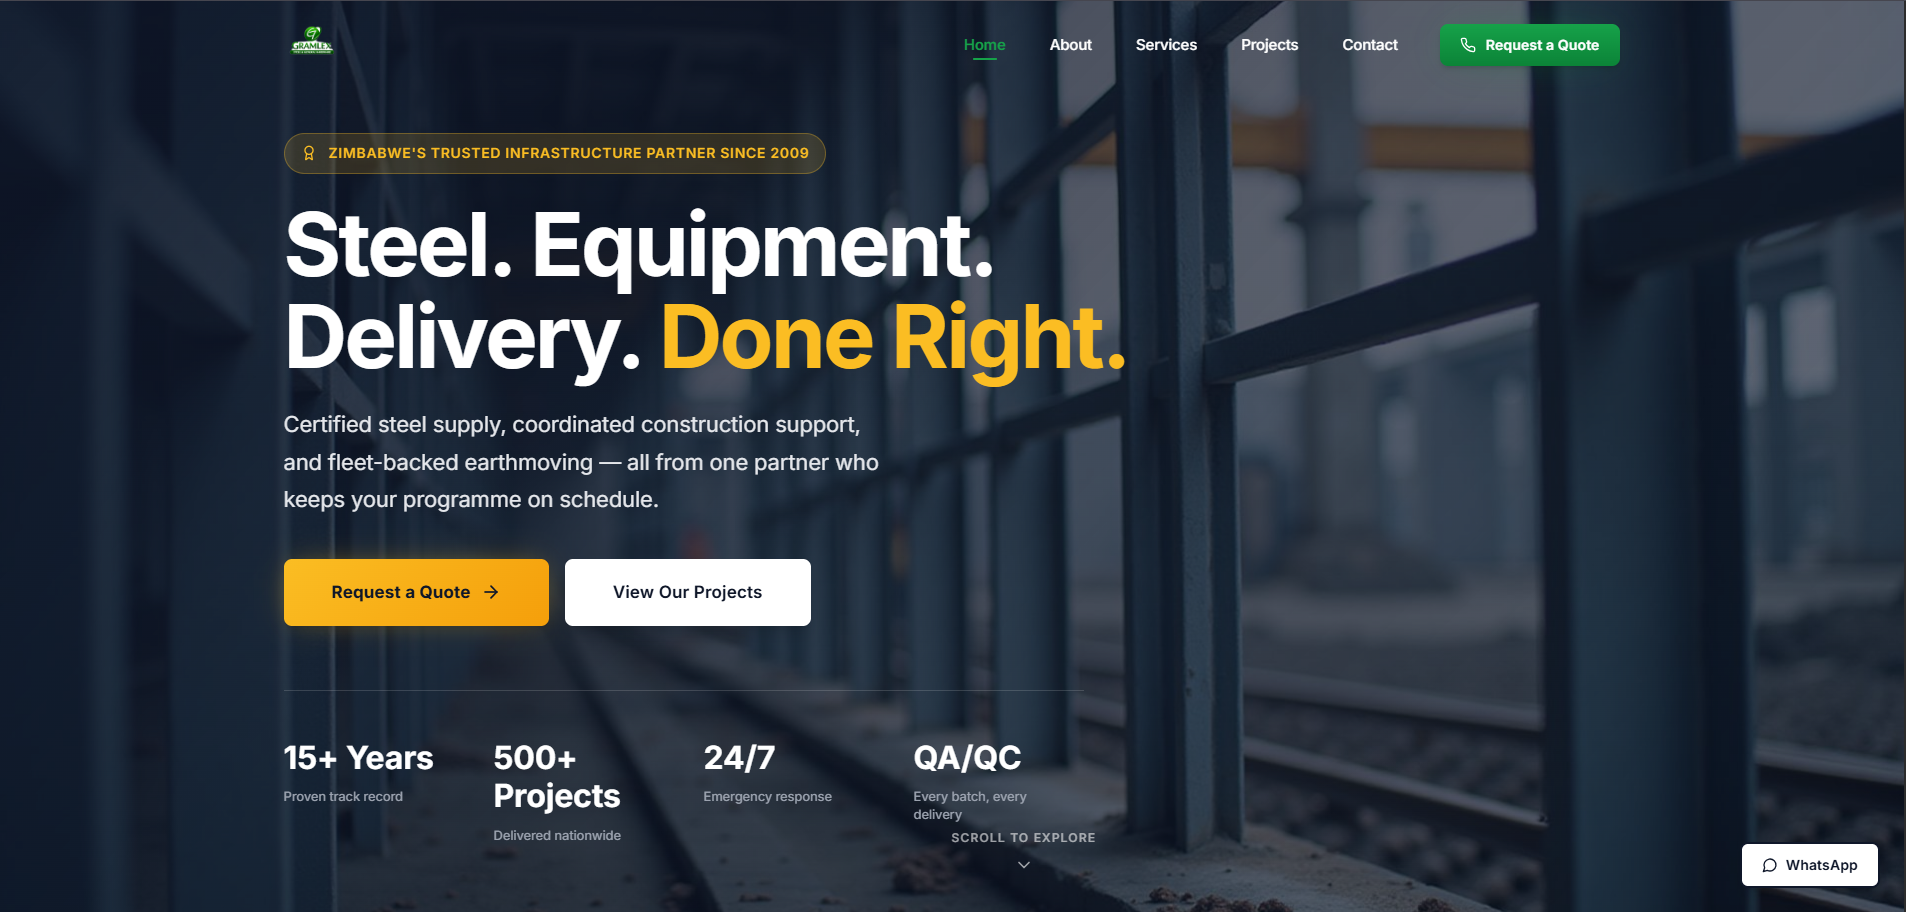
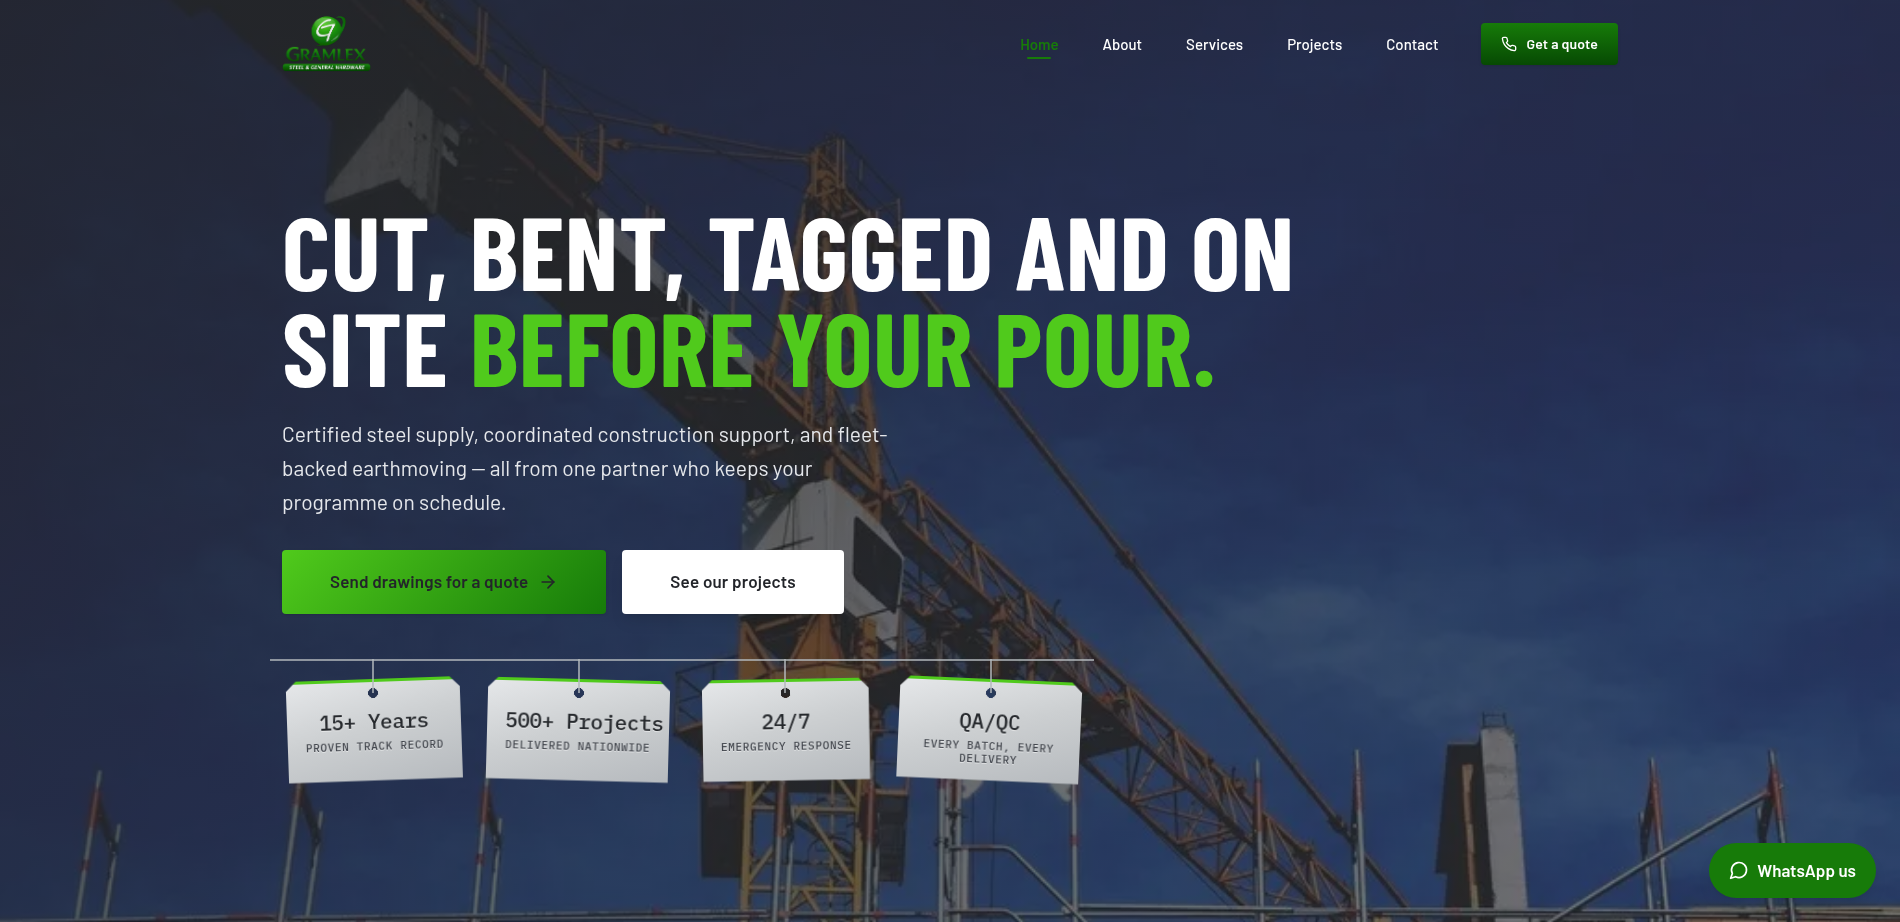
Add Gramlex back to showcase with its Vercel deployment

diff --git a/src/sections/ShowcaseSection.jsx b/src/sections/ShowcaseSection.jsx
@@ -19,6 +19,7 @@ const AppShowcase = () => {
   const sectionRef = useRef(null);
   const rydeRef = useRef(null);
   const libraryRef = useRef(null);
+  const ycDirectoryRef = useRef(null);
 
   useGSAP(() => {
     // Animation for the main section
@@ -29,7 +30,7 @@ const AppShowcase = () => {
     );
 
     // Animations for each app showcase
-    const cards = [rydeRef.current, libraryRef.current];
+    const cards = [rydeRef.current, libraryRef.current, ycDirectoryRef.current];
 
     cards.forEach((card, index) => {
       gsap.fromTo(
@@ -94,6 +95,20 @@ const AppShowcase = () => {
                 <LiveChip />
               </div>
               <h2>Saint Prince — Turbine, Pump &amp; Heat Exchanger Engineering</h2>
+            </a>
+
+            <a
+              href="https://gramlex-steel-solutions.vercel.app/"
+              target="_blank"
+              rel="noopener noreferrer"
+              className="project"
+              ref={ycDirectoryRef}
+            >
+              <div className="image-wrapper">
+                <img src="/images/gramlex-shot.png" alt="Gramlex Investments" />
+                <LiveChip />
+              </div>
+              <h2>Gramlex Investments — Steel &amp; Infrastructure Supply</h2>
             </a>
           </div>
         </div>
